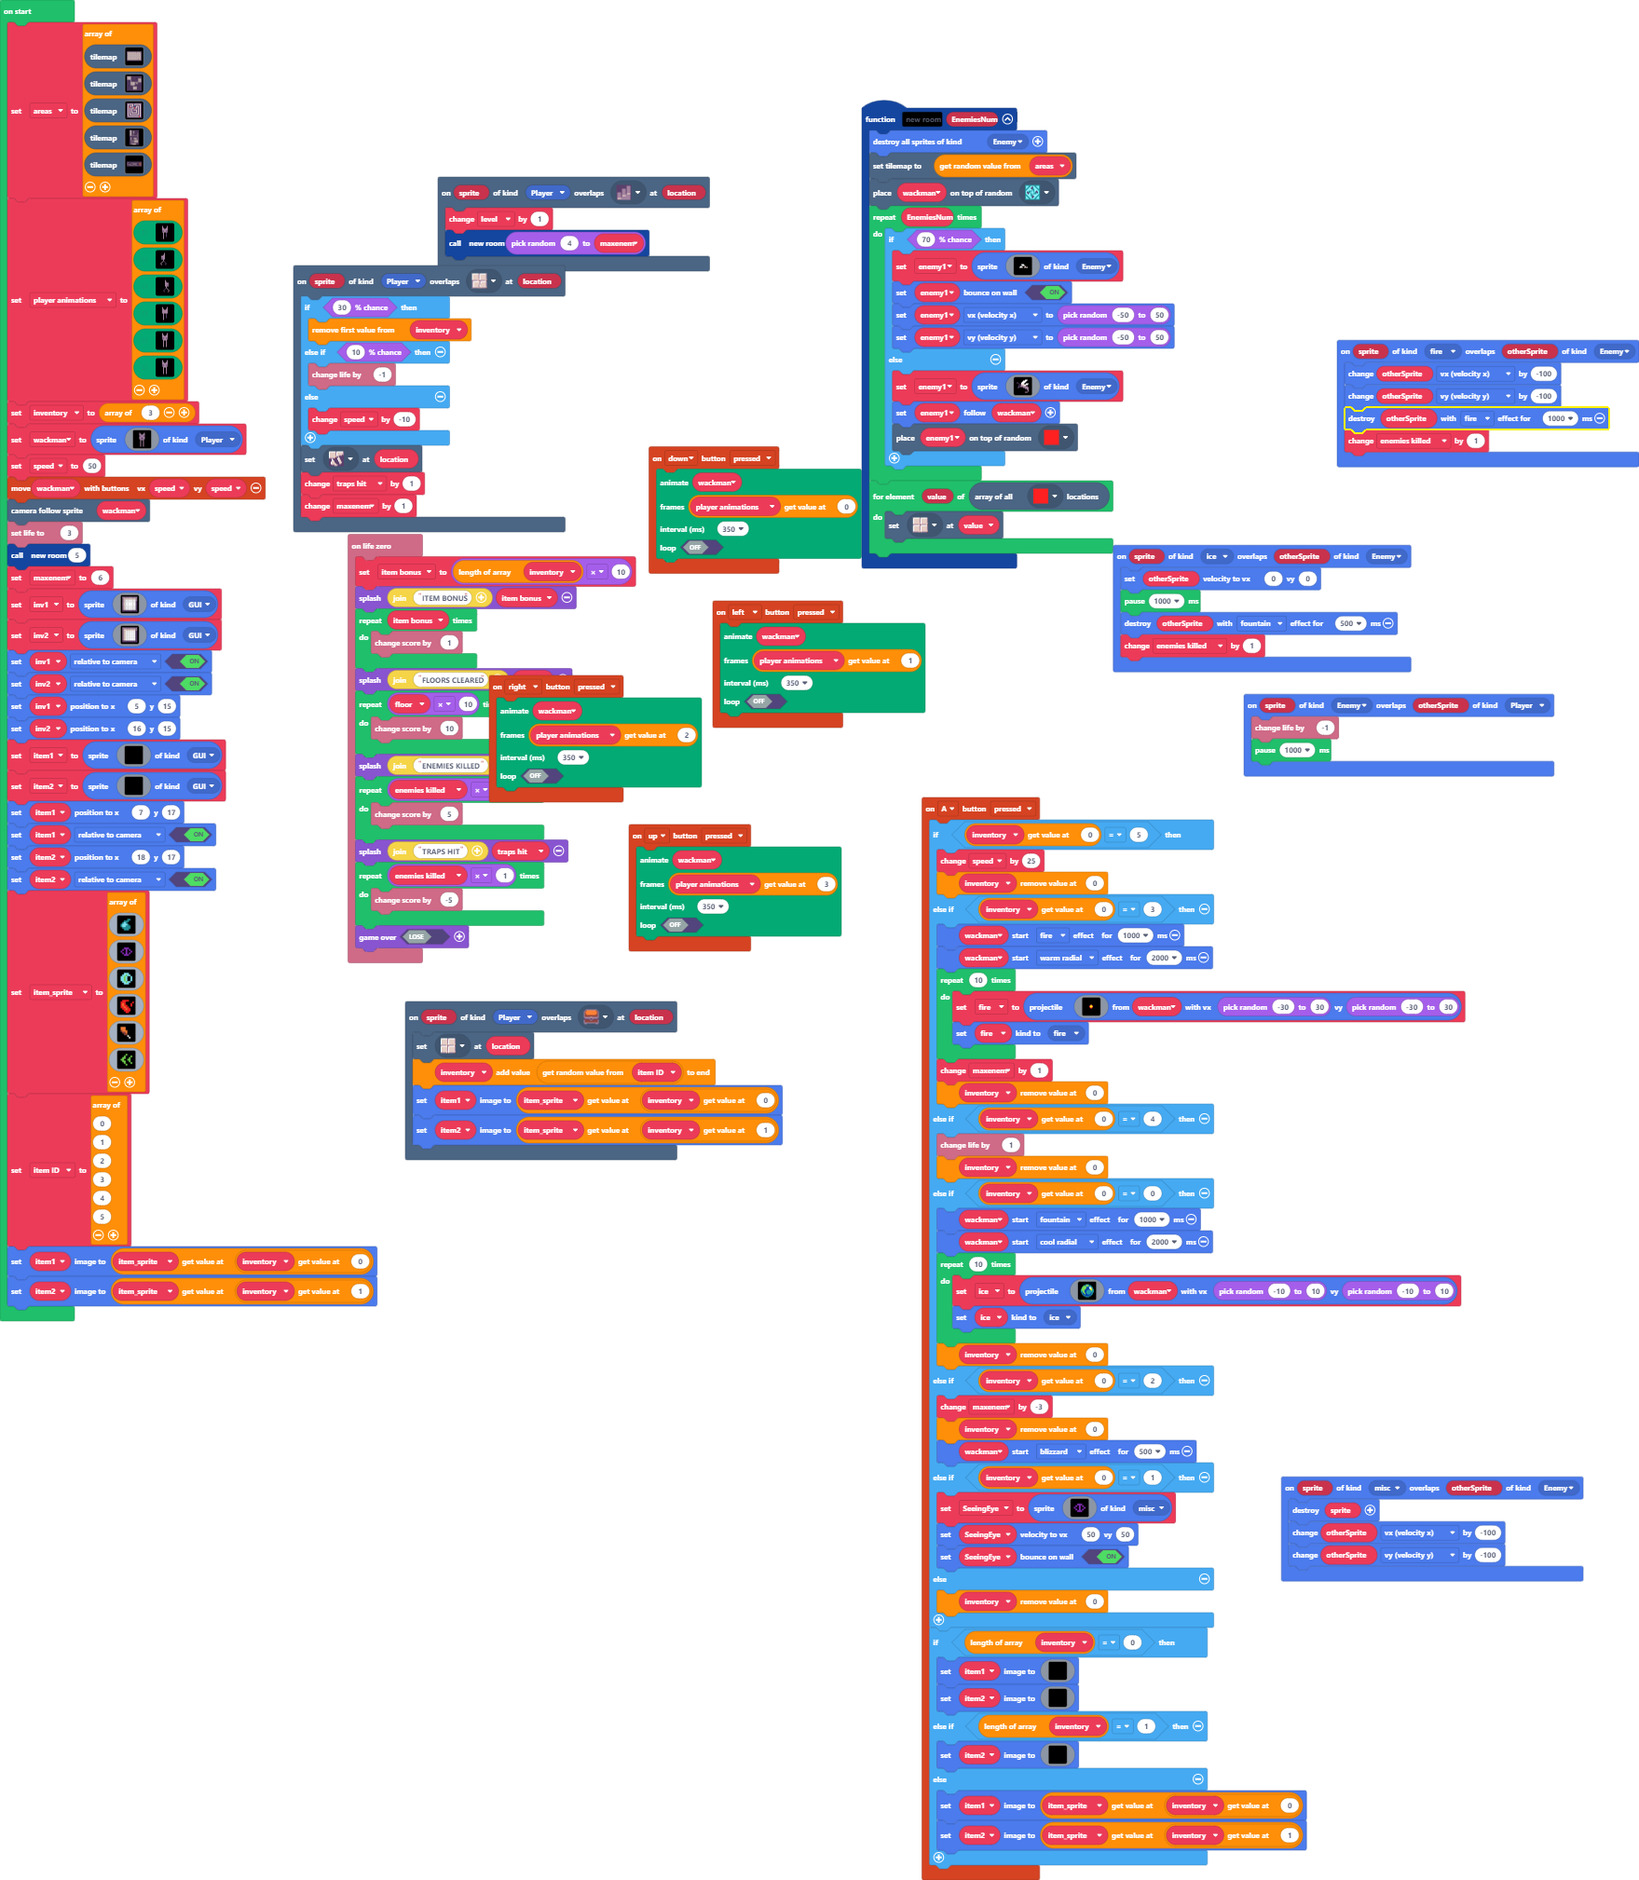
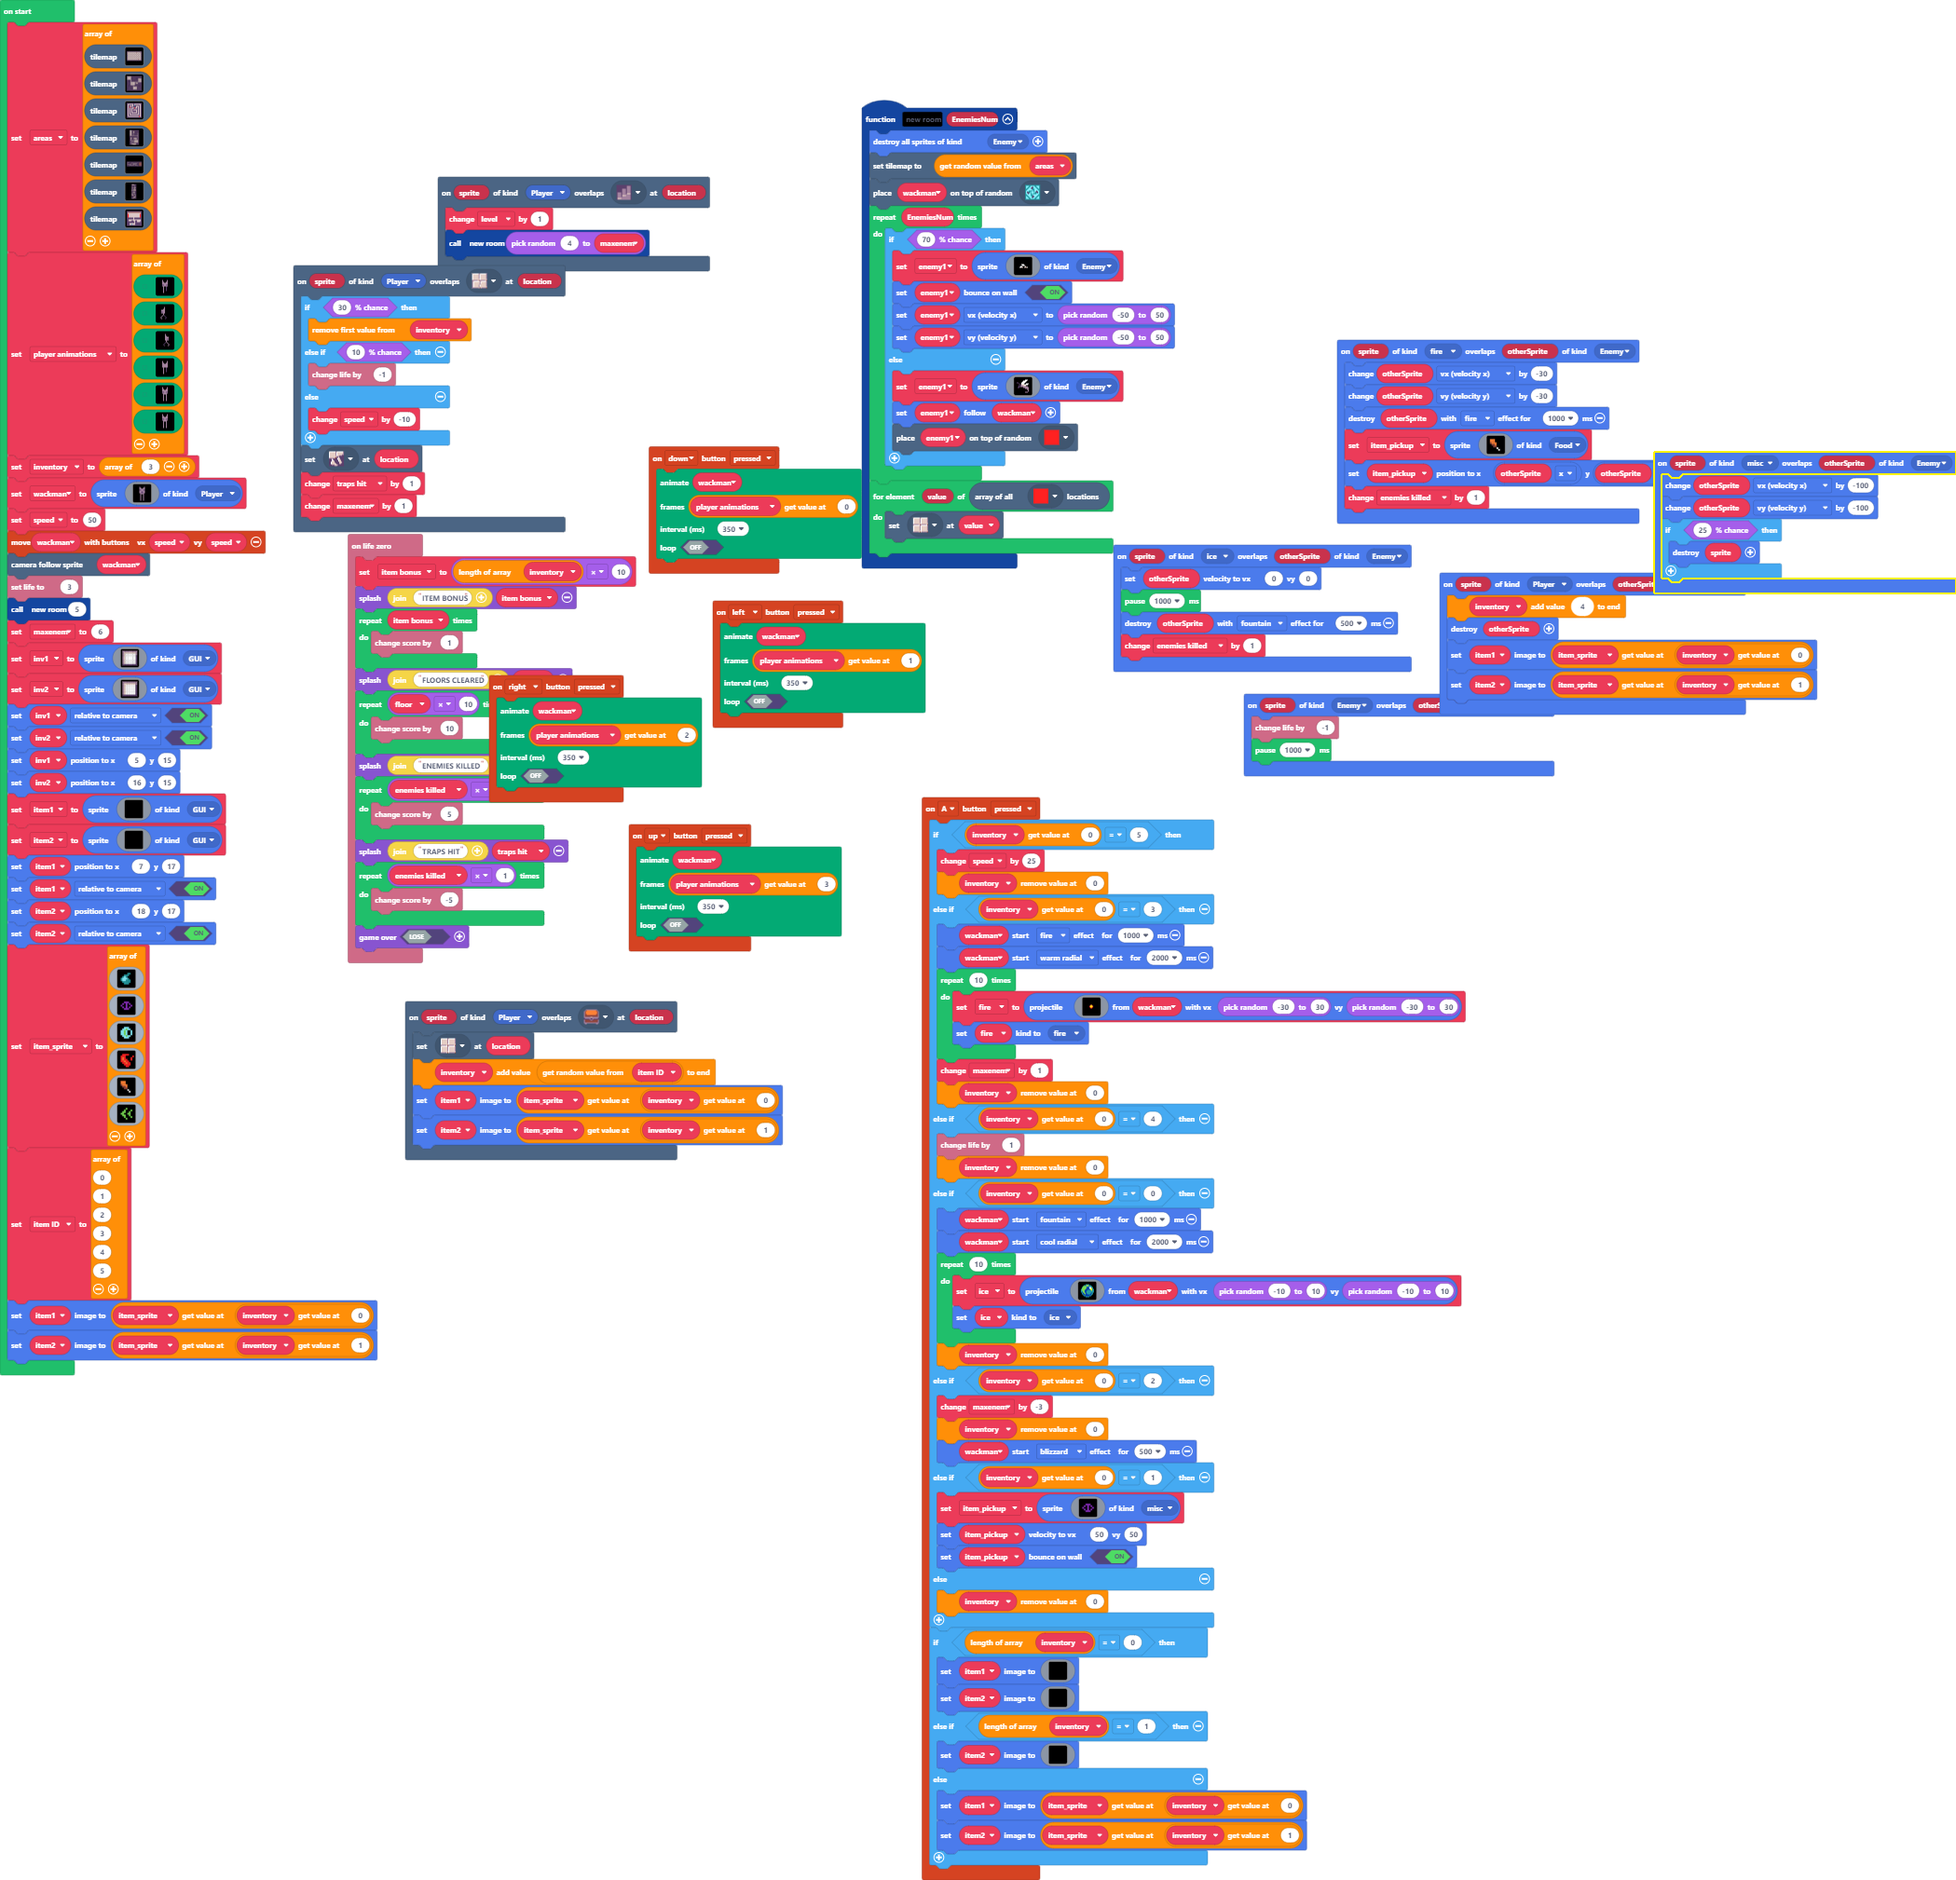
Update main.blocks, main.ts, tilemap.g.jres, tilemap.g.ts

diff --git a/tilemap.g.ts b/tilemap.g.ts
@@ -244,59 +244,116 @@ namespace myTiles {
 2 . . . . . . . . . . . . . . 2 
 2 2 2 2 2 2 2 2 2 2 2 2 2 2 2 2 
 `, [myTiles.transparency16,myTiles.tile1,sprites.dungeon.collectibleInsignia,sprites.dungeon.floorLight0,sprites.dungeon.darkGroundSouthWest1,sprites.dungeon.stairLarge,sprites.dungeon.darkGroundNorthWest1,sprites.dungeon.floorLight4,sprites.dungeon.floorLight3], TileScale.Sixteen);
+            case "level11":
+            case "level11":return tiles.createTilemap(hex`1000100000000000000000000000000000000000000000000000000000000000000000000000000000000000000000000000000000000000000000000000000000000000000000000000000000000000000000000000000000000000000000000000000000000000000000000000000000000000000000000000000000000000000000000000000000000000000000000000000000000000000000000000000000000000000000000000000000000000000000000000000000000000000000000000000000000000000000000000000000000000000000000000000000000000000000000000000000000000000000000000000000000000000000000000000000000000`, img`
+. . . . . . . . . . . . . . . . 
+. . . . . . . . . . . . . . . . 
+. . . . . . . . . . . . . . . . 
+. . . . . . . . . . . . . . . . 
+. . . . . . . . . . . . . . . . 
+. . . . . . . . . . . . . . . . 
+. . . . . . . . . . . . . . . . 
+. . . . . . . . . . . . . . . . 
+. . . . . . . . . . . . . . . . 
+. . . . . . . . . . . . . . . . 
+. . . . . . . . . . . . . . . . 
+. . . . . . . . . . . . . . . . 
+. . . . . . . . . . . . . . . . 
+. . . . . . . . . . . . . . . . 
+. . . . . . . . . . . . . . . . 
+. . . . . . . . . . . . . . . . 
+`, [myTiles.transparency16], TileScale.Sixteen);
             case "level10":
-            case "level10":return tiles.createTilemap(hex`100032000101010101010101010101010101010101010202020202020101010101010101010102020202020201010101010101010101020204020202020202010101010101010202020202020101020101010101010101010101010101010201010101010101010101010101010102010101010101010101010101010101020101010101010104020101010101010201010101010101020201010101010102010101010101010202010101010101020101010101010102020101010101010201020203010101020201010101010202020202020101010202020202020202020202020101010102020101010101020202020101010101020201010101010102020101010101010202010101010101020101010101010102010101010101010201010101010101020101010102020202020202020101020202010101020202020202020201010202020202020202020202020202010102020201010102020202020202020101020202010101020202020202020201010102010101010101010101010101010101020101010101010101010101010101010201010101020101010101010101010102010101010202020202010101010101020101010102020202020101010101010202020202020202020201010101010101010101010201010201010101010101010101010102010102010101010101020202020202020101020101010101010201010101010101010201010101010102010101010101010102010101010101020101010101010101020101010101010202020202020101010202020201010102020202020202020202010102010101020202020202010101010101020101010204020202020101010101010201010101010101010101010101010102010101010101010101010101010101020101010101010101010101010101010201010101010101010102020202020202010101010101010101020202020202020101010101010101010202020202020201010101010101010102020202020202010101010101010101010202010101010101010101010101010102010101010101010105020202020202020101010101010101010101010101010101010101010101`, img`
-................
-................
-................
-................
-................
-................
-................
-................
-................
-................
-................
-................
-................
-................
-................
-................
-................
-................
-................
-................
-................
-................
-................
-................
-................
-................
-................
-................
-................
-................
-................
-................
-................
-................
-................
-................
-................
-................
-................
-................
-................
-................
-................
-................
-................
-................
-................
-................
-................
-................
-`, [myTiles.transparency16,sprites.dungeon.darkGroundNorthWest1,sprites.dungeon.floorLight0,sprites.dungeon.stairLarge,sprites.dungeon.chestClosed,sprites.dungeon.collectibleInsignia], TileScale.Sixteen);
+            case "level10":return tiles.createTilemap(hex`100032000101010101010101010101010101010101010202020202020101010101010101010102020702020201010101010101010101020204070202020202010101010101010202070202020101020101010101010101010101010101010201010101010101010101010101010102010101010101010101010101010101020101010101010104020101010101010201010101010101020201010101010102010101010101010202010101010101020101010101010102020101010101010201020203010101020201010101010202020207020101010702020202020202020202020101010102020101010101020202020101010101020201010101010102020101010101010202010101010101020101010101010102010101010101010201010101010101020101010102020202020202020101020202010101020202020202020201010202020202020202070202020202010102020201010102020202020206020101020202010101020202020202020201010102010101010101010101010101010101020101010101010101010101010101010201010101020101010101010101010102010101010202020202010101010101020101010102020202020101010101010202020202020202020201010101010101010101010201010201010101010101010101010102010102010101010101020202020202020101020101010101010201010101010101010201010101010102010101010101010102010101010101020101010101010101020101010101010202020202020101010202020201010102020206020202020202010102010101020202020702010101010101020101010204020202020101010101010201010101010101010101010101010102010101010101010101010101010101020101010101010101010101010101010201010101010101010106020202020202010101010101010101020202070202020101010101010101010202020202020201010101010101010102020202020206010101010101010101010202010101010101010101010101010102010101010101010105020202020202020101010101010101010101010101010101010101010101`, img`
+2222222222222222
+22......22222222
+22......22222222
+22.........22222
+22......22.22222
+2222222222.22222
+2222222222.22222
+2222222222.22222
+22..222222.22222
+22..222222.22222
+22..222222.22222
+22..222222.2...2
+22..22222......2
+22............22
+22..22222....222
+22..222222..2222
+22..222222.22222
+22.2222222.22222
+22.2222........2
+2...222........2
+2..............2
+2...222........2
+2...222........2
+22.2222222222222
+22.2222222222222
+22.2222.22222222
+22.2222.....2222
+22.2222.....2222
+22..........2222
+2222222.22.22222
+2222222.22.22222
+2.......22.22222
+2.22222222.22222
+2.22222222.22222
+2.22222222.22222
+2......222....22
+2..........22.22
+2......222222.22
+2......222222.22
+2222222222222.22
+2222222222222.22
+2222222222222.22
+2222222.......22
+2222222.......22
+2222222.......22
+2222222.......22
+22222222..222222
+22222222.2222222
+2........2222222
+2222222222222222
+`, [myTiles.transparency16,sprites.dungeon.darkGroundNorthWest1,sprites.dungeon.floorLight0,sprites.dungeon.stairLarge,sprites.dungeon.chestClosed,sprites.dungeon.collectibleInsignia,myTiles.tile1,sprites.dungeon.floorLight4], TileScale.Sixteen);
+            case "level13":
+            case "level13":return tiles.createTilemap(hex`1000100000000000000000000000000000000000000000000000000000000000000000000000000000000000000000000000000000000000000000000000000000000000000000000000000000000000000000000000000000000000000000000000000000000000000000000000000000000000000000000000000000000000000000000000000000000000000000000000000000000000000000000000000000000000000000000000000000000000000000000000000000000000000000000000000000000000000000000000000000000000000000000000000000000000000000000000000000000000000000000000000000000000000000000000000000000000`, img`
+. . . . . . . . . . . . . . . . 
+. . . . . . . . . . . . . . . . 
+. . . . . . . . . . . . . . . . 
+. . . . . . . . . . . . . . . . 
+. . . . . . . . . . . . . . . . 
+. . . . . . . . . . . . . . . . 
+. . . . . . . . . . . . . . . . 
+. . . . . . . . . . . . . . . . 
+. . . . . . . . . . . . . . . . 
+. . . . . . . . . . . . . . . . 
+. . . . . . . . . . . . . . . . 
+. . . . . . . . . . . . . . . . 
+. . . . . . . . . . . . . . . . 
+. . . . . . . . . . . . . . . . 
+. . . . . . . . . . . . . . . . 
+. . . . . . . . . . . . . . . . 
+`, [myTiles.transparency16], TileScale.Sixteen);
+            case "level12":
+            case "level12":return tiles.createTilemap(hex`1000100002020202020202020202020202020202020606060606060606060606060606020203030303030303030303030303030202010303030303030303030303030102020103030303030303030303030301020201030303030303030303030303010202010303030303030303030303030102020202020202020302020202020202020202020202020203020202020202020202020404040403030303030303030302020204040402020403020203030303020202020202020202030202030303050202020202020202020302020202020202020202030303030303020202020202020202020303070303030202020202020202020202020202020202020202020202`, img`
+2 2 2 2 2 2 2 2 2 2 2 2 2 2 2 2 
+2 . . . . . . . . . . . . . . 2 
+2 . . . . . . . . . . . . . . 2 
+2 . . . . . . . . . . . . . . 2 
+2 . . . . . . . . . . . . . . 2 
+2 . . . . . . . . . . . . . . 2 
+2 . . . . . . . . . . . . . . 2 
+2 2 2 2 2 2 2 . 2 2 2 2 2 2 2 2 
+2 2 2 2 2 2 2 . 2 2 2 2 2 2 2 2 
+2 2 . . . . . . . . . . . . . 2 
+2 2 . . . 2 2 . . 2 2 . . . . 2 
+2 2 2 2 2 2 2 2 . 2 2 . . . . 2 
+2 2 2 2 2 2 2 2 . 2 2 2 2 2 2 2 
+2 2 2 . . . . . . 2 2 2 2 2 2 2 
+2 2 2 . . . . . . 2 2 2 2 2 2 2 
+2 2 2 2 2 2 2 2 2 2 2 2 2 2 2 2 
+`, [myTiles.transparency16,myTiles.tile1,sprites.dungeon.darkGroundNorthWest1,sprites.dungeon.floorLight0,sprites.dungeon.floorLight4,sprites.dungeon.stairLarge,sprites.dungeon.chestClosed,sprites.dungeon.collectibleInsignia], TileScale.Sixteen);
         }
         return null;
     })

diff --git a/main.ts b/main.ts
@@ -13,9 +13,11 @@ controller.up.onEvent(ControllerButtonEvent.Pressed, function () {
     )
 })
 sprites.onOverlap(SpriteKind.fire, SpriteKind.Enemy, function (sprite, otherSprite) {
-    otherSprite.vx += -100
-    otherSprite.vy += -100
+    otherSprite.vx += -30
+    otherSprite.vy += -30
     otherSprite.destroy(effects.fire, 1000)
+    item_pickup = sprites.create(assets.image`myImage4`, SpriteKind.Food)
+    item_pickup.setPosition(otherSprite.x, otherSprite.y)
     enemies_killed += 1
 })
 controller.A.onEvent(ControllerButtonEvent.Pressed, function () {
@@ -81,9 +83,9 @@ controller.A.onEvent(ControllerButtonEvent.Pressed, function () {
         inventory.removeAt(0)
         wackman.startEffect(effects.blizzard, 500)
     } else if (inventory[0] == 1) {
-        SeeingEye = sprites.create(assets.image`myImage2`, SpriteKind.misc)
-        SeeingEye.setVelocity(50, 50)
-        SeeingEye.setBounceOnWall(true)
+        item_pickup = sprites.create(assets.image`myImage2`, SpriteKind.misc)
+        item_pickup.setVelocity(50, 50)
+        item_pickup.setBounceOnWall(true)
     } else {
         inventory.removeAt(0)
     }
@@ -209,6 +211,12 @@ info.onLifeZero(function () {
     }
     game.over(false)
 })
+sprites.onOverlap(SpriteKind.Player, SpriteKind.Food, function (sprite, otherSprite) {
+    inventory.push(4)
+    otherSprite.destroy()
+    item1.setImage(item_sprite[inventory[0]])
+    item2.setImage(item_sprite[inventory[1]])
+})
 function new_room (EnemiesNum: number) {
     sprites.destroyAllSpritesOfKind(SpriteKind.Enemy)
     tiles.setCurrentTilemap(areas._pickRandom())
@@ -230,9 +238,11 @@ function new_room (EnemiesNum: number) {
     }
 }
 sprites.onOverlap(SpriteKind.misc, SpriteKind.Enemy, function (sprite, otherSprite) {
-    sprite.destroy()
     otherSprite.vx += -100
     otherSprite.vy += -100
+    if (Math.percentChance(25)) {
+        sprite.destroy()
+    }
 })
 scene.onOverlapTile(SpriteKind.Player, sprites.dungeon.stairLarge, function (sprite, location) {
     level += 1
@@ -254,10 +264,10 @@ let enemy1: Sprite = null
 let traps_hit = 0
 let level = 0
 let item_bonus = 0
-let SeeingEye: Sprite = null
 let ice: Sprite = null
 let fire: Sprite = null
 let enemies_killed = 0
+let item_pickup: Sprite = null
 let item_ID: number[] = []
 let item_sprite: Image[] = []
 let item2: Sprite = null
@@ -272,7 +282,9 @@ tilemap`room1`,
 tilemap`level3`,
 tilemap`die1`,
 tilemap`level4`,
-tilemap`level7`
+tilemap`level7`,
+tilemap`level10`,
+tilemap`level12`
 ]
 player_animations = [
 assets.animation`wacky boy forward`,
